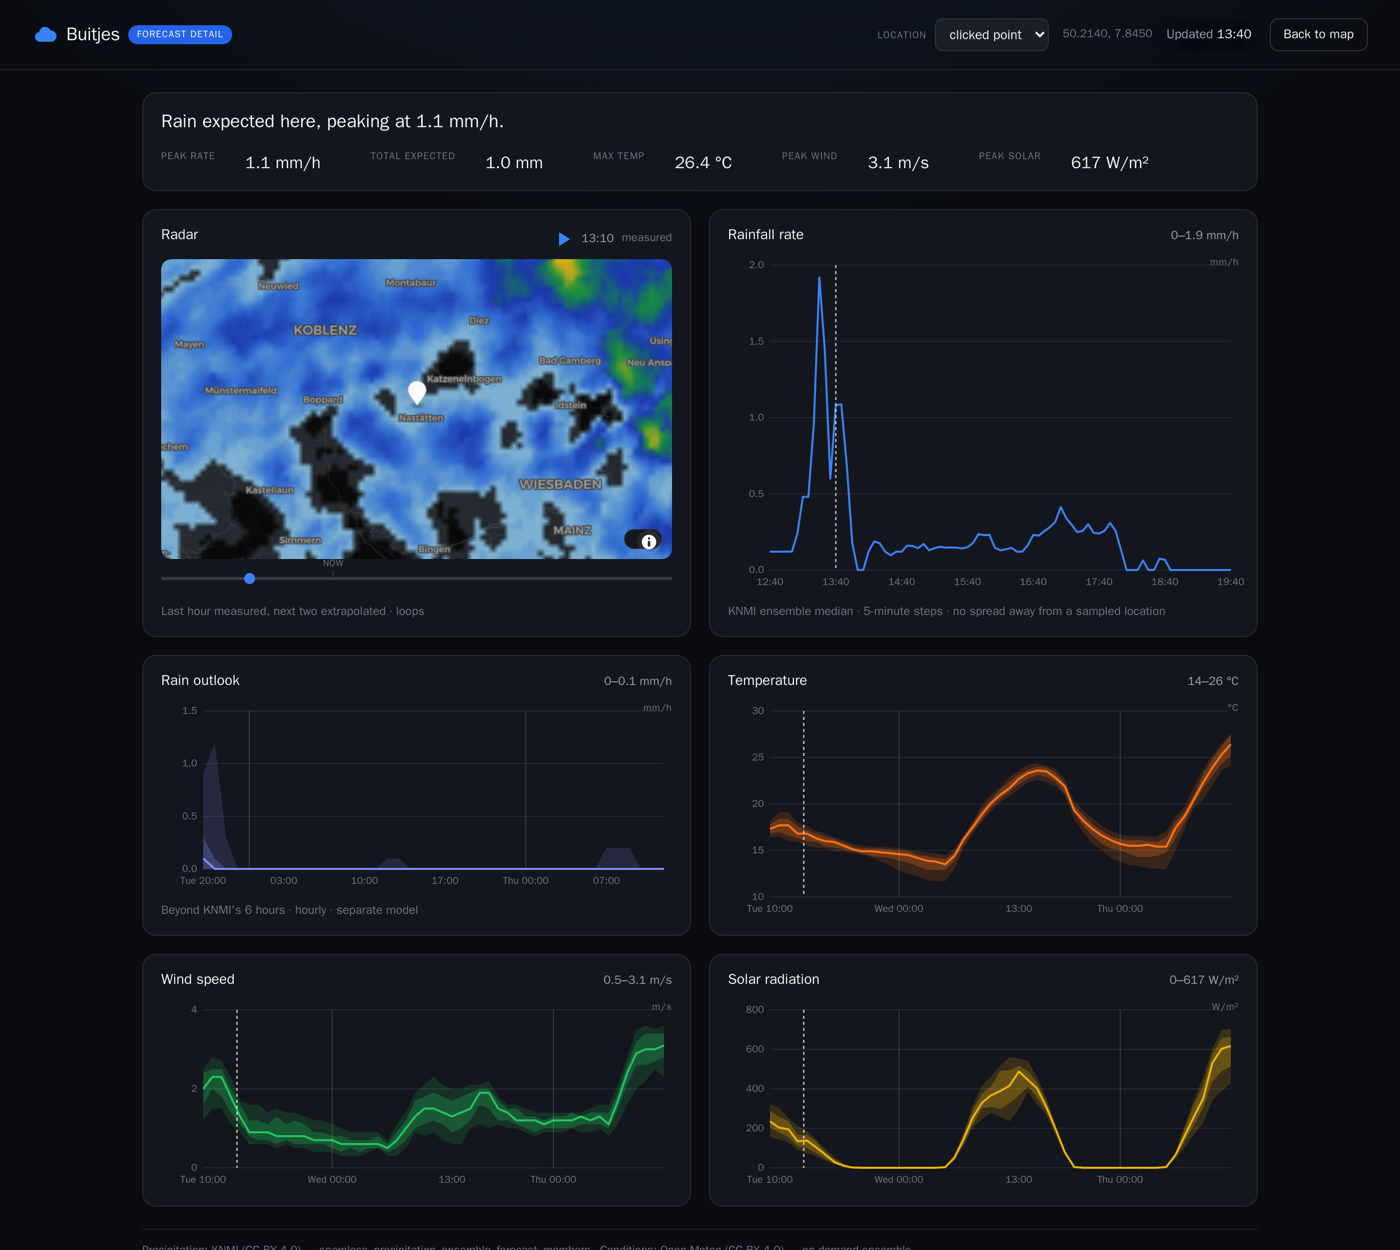
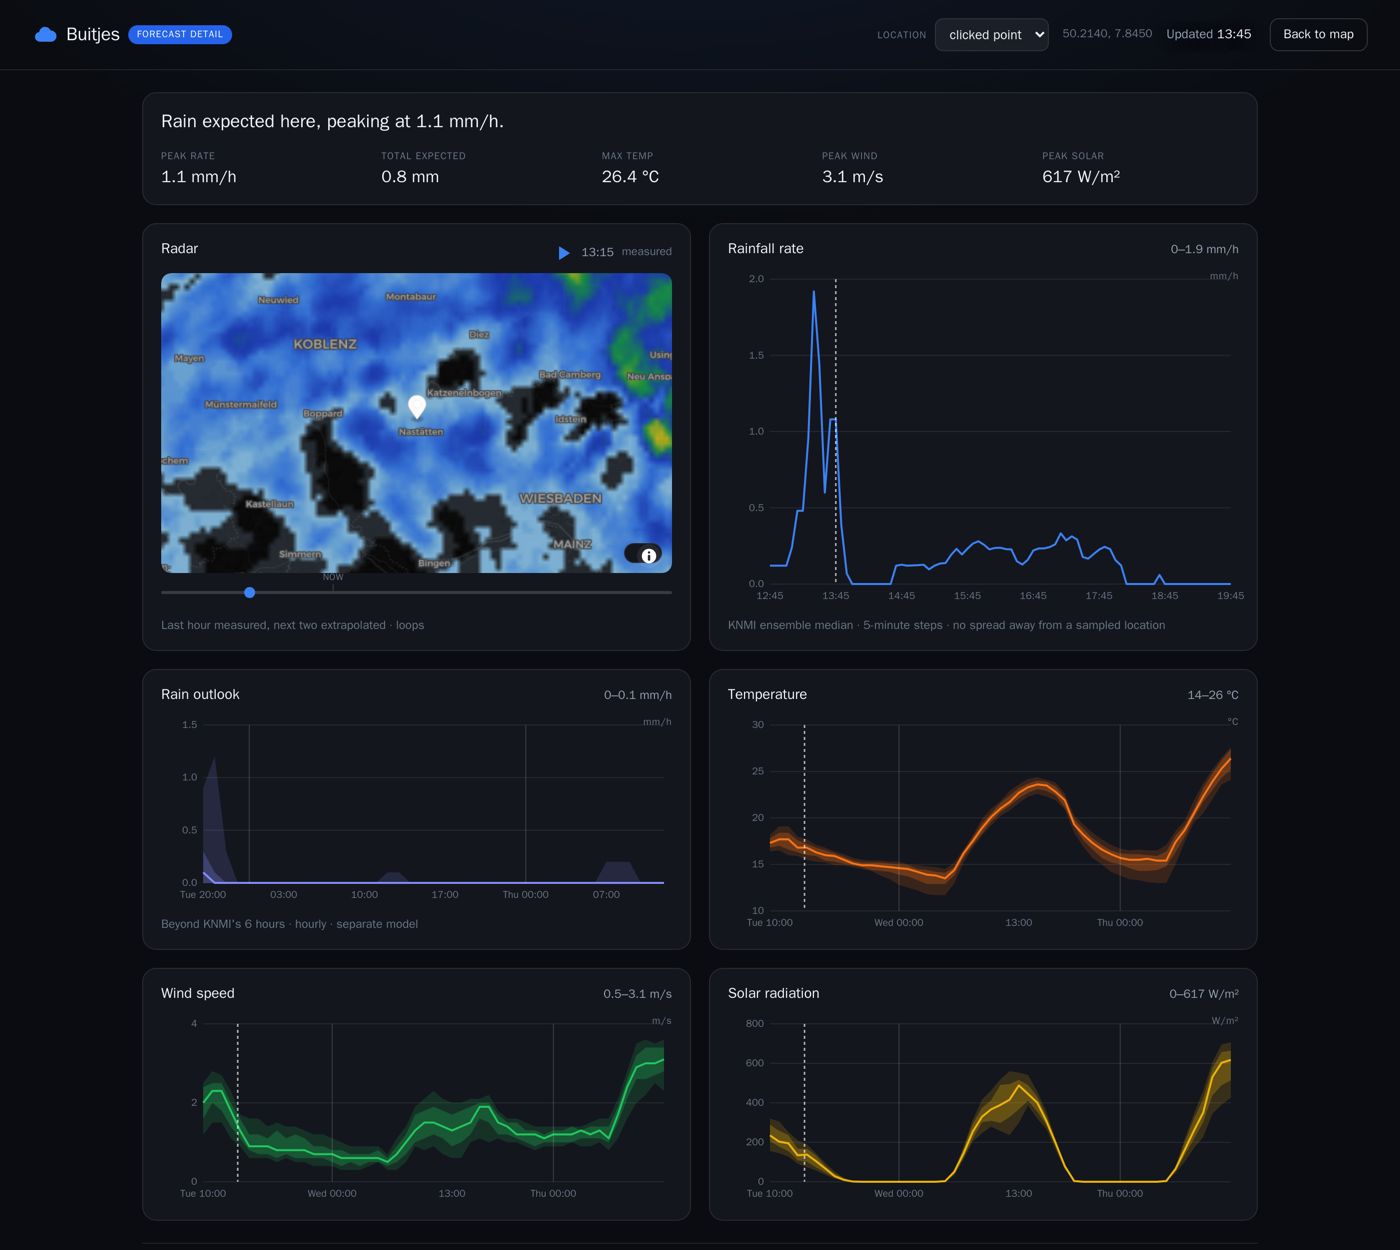
Keep each summary stat's label with its number
On a phone the summary card read "PEAK RATE / 1.1 mm/h / TOTAL EXPECTED",
then "2.0 mm / MAX TEMP / 27.7 °C" on the next line — labels and values
sliding past each other by one.

The stylesheet already said what it wanted: "Each stat is a dt/dd pair stacked
into its own column". The markup could not express it. Every dt and dd was an
independent flex item in one wrapping row, so they were only ever adjacent by
luck, and the first line that wrapped split a label from its number and pushed
the error along the whole rest of the list.

Each pair now sits in its own div — valid inside a dl, and keeps the dt/dd
association — and the container is a grid of auto-fit columns. Same rule gives
five across on a desktop, three at 560px and two on a phone, with the label
always directly above its own value.

Verified at 390/560/900/1400 by checking, for every stat, that the label and
its value share a left edge and the value sits below the label.

diff --git a/frontend/style.css b/frontend/style.css
@@ -1021,12 +1021,16 @@ body.page-forecast {
 .summary-card { grid-column: 1 / -1; }
 .summary-text { margin: 0 0 14px; font-size: 1.15rem; font-weight: 600; line-height: 1.4; }
 
+/* A grid of equal columns, one per stat. auto-fit rather than a fixed count so
+   the same rule gives five across on a desktop and two on a phone, with each
+   label still sitting directly above its own number. */
 .summary-stats {
-    display: flex;
-    flex-wrap: wrap;
-    gap: 10px 30px;
+    display: grid;
+    grid-template-columns: repeat(auto-fit, minmax(112px, 1fr));
+    gap: 14px 24px;
     margin: 0;
 }
+.summary-stat { min-width: 0; }
 .summary-stats dt {
     font-size: 0.62rem;
     font-weight: 700;
@@ -1040,9 +1044,7 @@ body.page-forecast {
     font-weight: 700;
     font-variant-numeric: tabular-nums;
 }
-/* Each stat is a dt/dd pair stacked into its own column. */
-.summary-stats dt { flex: 0 0 auto; }
-.summary-stats dd { flex: 0 0 auto; margin-right: 20px; }
+
 
 .chart-head {
     display: flex;

diff --git a/frontend/js/forecast.js b/frontend/js/forecast.js
@@ -231,12 +231,19 @@ function renderSummaryStats(document_) {
         ]);
     }
 
+    // Each pair goes in its own wrapper — a <div> inside a <dl> is valid and
+    // keeps the dt/dd association. Without it the two are separate flex items
+    // that merely happen to sit next to each other, and the first line that
+    // wraps leaves a label on one row and its number on the next.
     for (const [label, value] of items) {
+        const cell = document.createElement('div');
+        cell.className = 'summary-stat';
         const term = document.createElement('dt');
         term.textContent = label;
         const definition = document.createElement('dd');
         definition.textContent = value;
-        stats.append(term, definition);
+        cell.append(term, definition);
+        stats.append(cell);
     }
 }
 
